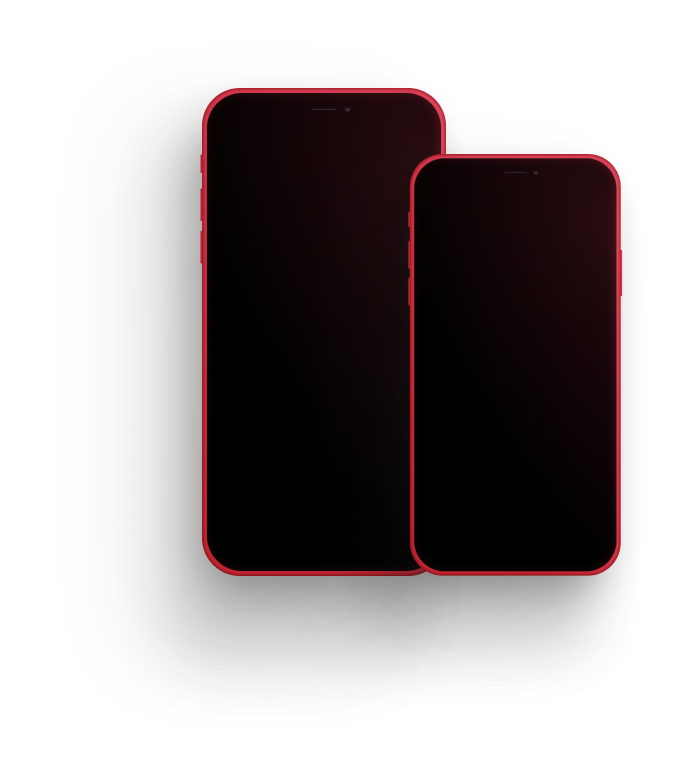
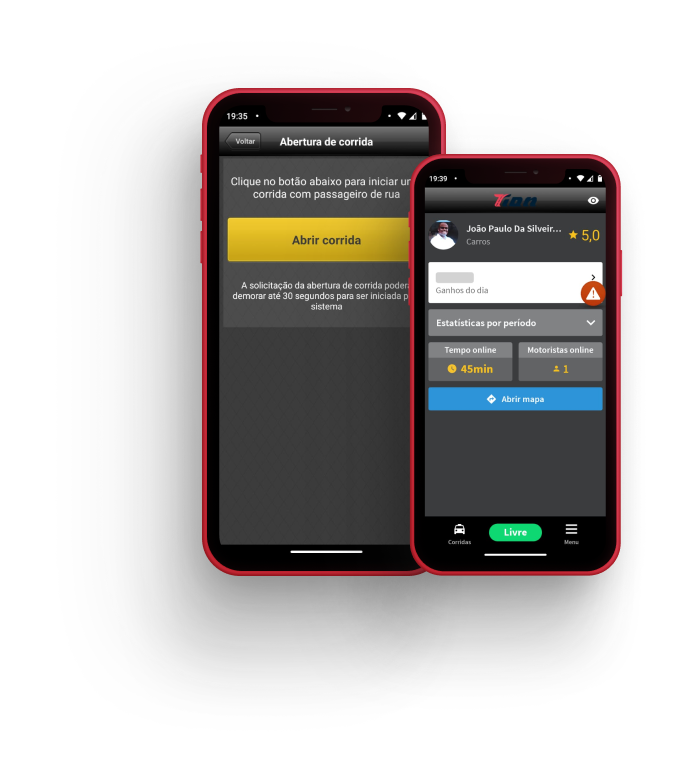
hero img replace

Changed region(s): [[0.3097, 0.1242, 0.8982, 0.7451]]

diff --git a/src/components/Hero.jsx b/src/components/Hero.jsx
@@ -1,15 +1,11 @@
-import {
-  Flex,
-  Text,
-  VStack,
-} from "@chakra-ui/react";
+import { Flex, Text, VStack, Link, Image } from "@chakra-ui/react";
 import { Botao } from "./Botao";
 
-import Image from 'next/image'
+// import Image from "next/image";
 
 export function Hero() {
   return (
-    <Flex  as="section" justify="center" align="center" w="100%">
+    <Flex as="section" justify="center" align="center" w="100%">
       <Flex
         p="5rem 1rem"
         align="center"
@@ -18,12 +14,26 @@ export function Hero() {
       >
         <VStack spacing={0} align="start" flex={1}>
           <Text fontSize={24}>O Tion cobra tarifa</Text>
-          <Text lineHeight={0.7} bgGradient="linear(to-r, pessego, gradient2)" bgClip="text" fontWeight="bold" fontSize={{base:120, md:200}}>zero</Text>
-          <Text fontSize={{base:45, md:75}}>por corrida</Text>
-          <Text py={8}>Você paga somente uma taxa de R$ 00,00 para uso do aplicativo mensalmente.</Text>
-          <a href="#cadastre"><Botao url="#cadastre" text="Seja um motorista" w="full" /></a>
+          <Text
+            lineHeight={0.7}
+            bgGradient="linear(to-r, pessego, gradient2)"
+            bgClip="text"
+            fontWeight="bold"
+            fontSize={{ base: 120, md: 200 }}
+          >
+            zero
+          </Text>
+          <Text fontSize={{ base: 45, md: 75 }}>por corrida</Text>
+          <Text py={8}>
+            Você paga somente uma taxa de R$ 00,00 para uso do aplicativo
+            mensalmente.
+          </Text>
+          <Botao as="a" url="#cadastre" text="Seja um motorista" w="full" />
         </VStack>
-          <Image quality={100} width={678} height={773} src="/tion1.png" alt="Prévia do app em smartphones"></Image>
+        <Image transform={{base:"translateX(-10%)",md:"translateX(0)"}}
+          src="/tion1.png"
+          alt="Prévia do app em smartphones"
+        ></Image>
       </Flex>
     </Flex>
   );
